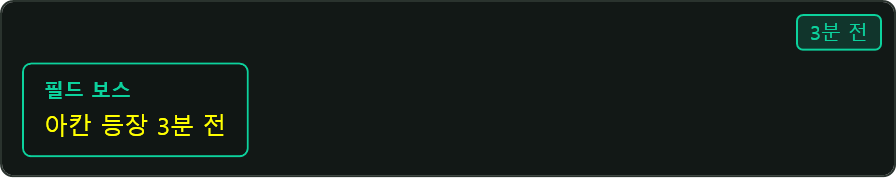
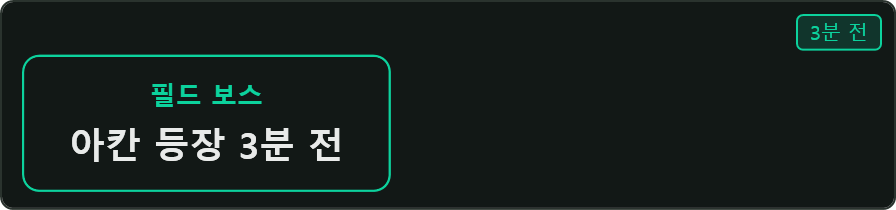
feat: 필드 보스 팝업 알림 — 던전 도우미 알림 창 스타일, 출현 5초 후 자동 닫힘
- BossAlertToastWindow 신설: 가운데 민트 타이틀 '필드 보스' + 굵은 본문,
  3분/1분 전은 기본 색, 5초 전은 '곧 등장!' 붉은 강조
- 소리 알림과 함께 표시, 같은 창을 재사용해 이후 단계 알림 시 문구 갱신
- 닫힘 시각 = 보스 출현 + 5초 (이미 지난 경우 5초 유지), 드래그 이동 가능,
  트레이 최소화 중에는 표시 안 함
- 텍스트 변경: 던전 알림 창 '던전 카운트'→'던전 도우미',
  '어밴던로드 상황판'→'어밴던로드 통계'
- 도움말: 보스 알림 프레임을 실제 팝업 렌더로 교체, 본문에 팝업 동작 추가
- 도움말 이미지 확대 금지(DownOnly) — 에토스 방향 88x128 원본이
  창 폭까지 늘어나 거대하게 보이던 문제 해결

diff --git a/Views/Overlays/AbaddonRoadSummaryWindow.xaml b/Views/Overlays/AbaddonRoadSummaryWindow.xaml
@@ -5,7 +5,7 @@
         xmlns:d="http://schemas.microsoft.com/expression/blend/2008"
         xmlns:mc="http://schemas.openxmlformats.org/markup-compatibility/2006"
         mc:Ignorable="d"
-        Title="어밴던로드 상황판"
+        Title="어밴던로드 통계"
         Width="384"
         Height="320"
         MinWidth="344"
@@ -40,7 +40,7 @@
                     <StackPanel Grid.Column="0"
                                 HorizontalAlignment="Center"
                                 VerticalAlignment="Center">
-                        <TextBlock Text="어밴던로드 상황판"
+                        <TextBlock Text="어밴던로드 통계"
                                    Foreground="{DynamicResource TextBrush}"
                                    FontSize="16"
                                    FontWeight="Bold"

diff --git a/Views/Overlays/DungeonCountDisplayWindow.xaml b/Views/Overlays/DungeonCountDisplayWindow.xaml
@@ -24,7 +24,7 @@
                     <RowDefinition Height="*"/>
                 </Grid.RowDefinitions>
 
-                <TextBlock Text="던전 카운트"
+                <TextBlock Text="던전 도우미"
                            Foreground="{DynamicResource OverlayTitleAccentTextBrush}"
                            FontSize="13"
                            FontWeight="SemiBold"
@@ -43,7 +43,7 @@
 
             <!-- 잠금 해제(위치 미리보기) 공통 라벨 -->
             <TextBlock x:Name="PreviewLabel"
-                       Text="던전 카운트 알림창"
+                       Text="던전 도우미 알림창"
                        Foreground="{DynamicResource TextBrush}"
                        FontSize="15"
                        FontWeight="SemiBold"

diff --git a/Views/Overlays/BossAlertToastWindow.cs b/Views/Overlays/BossAlertToastWindow.cs
@@ -1,0 +1,162 @@
+using System;
+using System.Windows;
+using System.Windows.Controls;
+using System.Windows.Input;
+using System.Windows.Interop;
+using System.Windows.Media;
+using System.Windows.Threading;
+using TWChatOverlay.Services;
+
+namespace TWChatOverlay.Views
+{
+    /// <summary>
+    /// 필드 보스 알림 팝업. 도움말 예시와 같은 다크·민트 토스트 스타일로
+    /// "필드 보스 / 아칸 등장 3분 전"을 표시하고, 보스 출현 5초 후 자동으로 닫힌다.
+    /// 같은 창을 재사용해 이후 알림(1분 전/5초 전)이 오면 문구만 갱신한다.
+    /// </summary>
+    public sealed class BossAlertToastWindow : Window
+    {
+        private static BossAlertToastWindow? _instance;
+
+        private static readonly Color DangerCol = Color.FromRgb(0xFF, 0x5A, 0x5A);
+
+        private readonly TextBlock _bodyText;
+        private readonly DispatcherTimer _closeTimer;
+
+        public BossAlertToastWindow()
+        {
+            WindowStyle = WindowStyle.None;
+            AllowsTransparency = true;
+            Background = Brushes.Transparent;
+            ShowInTaskbar = false;
+            ShowActivated = false;
+            Topmost = true;
+            ResizeMode = ResizeMode.NoResize;
+            SizeToContent = SizeToContent.WidthAndHeight;
+            WindowFontService.Apply(this);
+
+            // 던전 도우미(던전 카운트) 알림 창과 같은 시각 언어:
+            // 가운데 정렬 민트 타이틀 + 크고 굵은 본문, 둥근 어두운 판
+            var title = new TextBlock
+            {
+                Text = "필드 보스",
+                FontSize = 13,
+                FontWeight = FontWeights.SemiBold,
+                TextAlignment = TextAlignment.Center,
+            };
+            title.SetResourceReference(TextBlock.ForegroundProperty, "OverlayTitleAccentTextBrush");
+
+            _bodyText = new TextBlock
+            {
+                FontSize = 18,
+                FontWeight = FontWeights.Bold,
+                TextAlignment = TextAlignment.Center,
+                Margin = new Thickness(0, 4, 0, 0),
+            };
+            _bodyText.SetResourceReference(TextBlock.ForegroundProperty, "TextBrush");
+
+            var stack = new StackPanel { MinWidth = 150 };
+            stack.Children.Add(title);
+            stack.Children.Add(_bodyText);
+
+            var root = new Border
+            {
+                BorderThickness = new Thickness(1.2),
+                CornerRadius = new CornerRadius(8),
+                Padding = new Thickness(16, 10, 16, 11),
+                Child = stack,
+            };
+            root.SetResourceReference(Border.BackgroundProperty, "OverlayWindowBackgroundBrush");
+            root.SetResourceReference(Border.BorderBrushProperty, "OverlayAccentBorderBrush");
+            Content = root;
+
+            // 잡고 끌어서 옮길 수 있게 (위치는 세션 내에서만 유지)
+            root.MouseLeftButtonDown += (_, e) =>
+            {
+                if (e.ButtonState == MouseButtonState.Pressed)
+                {
+                    try { DragMove(); } catch { }
+                }
+            };
+
+            _closeTimer = new DispatcherTimer();
+            _closeTimer.Tick += (_, _) =>
+            {
+                _closeTimer.Stop();
+                try { Close(); } catch { }
+            };
+        }
+
+        protected override void OnSourceInitialized(EventArgs e)
+        {
+            base.OnSourceInitialized(e);
+            try
+            {
+                IntPtr hwnd = new WindowInteropHelper(this).EnsureHandle();
+                int exStyle = NativeMethods.GetWindowLong(hwnd, NativeMethods.GWL_EXSTYLE);
+                NativeMethods.SetWindowLong(hwnd, NativeMethods.GWL_EXSTYLE, exStyle | NativeMethods.WS_EX_TOOLWINDOW);
+            }
+            catch { }
+        }
+
+        /// <summary>알림 문구 설정. 5초 전(등장 임박)은 붉은색으로 강조한다.</summary>
+        public void SetAlert(string bossName, string label)
+        {
+            bool imminent = string.Equals(label, "5초 전", StringComparison.Ordinal);
+            _bodyText.Text = imminent ? $"{bossName} 곧 등장!" : $"{bossName} 등장 {label}";
+            if (imminent)
+                _bodyText.Foreground = new SolidColorBrush(DangerCol);
+            else
+                _bodyText.SetResourceReference(TextBlock.ForegroundProperty, "TextBrush");
+        }
+
+        /// <summary>
+        /// 알림 팝업 표시(싱글턴 재사용). 보스 출현 시각 + 5초에 자동으로 닫는다.
+        /// 이후 단계 알림이 오면 문구를 갱신하고 닫힘 시각을 다시 계산한다.
+        /// </summary>
+        public static void ShowAlert(string bossName, string label, DateTime occurrence)
+        {
+            if (TrayAllWindowsService.IsTrayed)
+                return; // 트레이 최소화 중에는 알림 창을 띄우지 않는다
+
+            try
+            {
+                bool isNew = _instance == null || !_instance.IsLoaded;
+                if (isNew)
+                {
+                    _instance = new BossAlertToastWindow();
+                    _instance.Closed += (_, _) => _instance = null;
+                }
+
+                var window = _instance!;
+                window.SetAlert(bossName, label);
+
+                // 보스 출현 5초 후 삭제 (이미 지났으면 5초만 유지)
+                TimeSpan lifetime = occurrence.AddSeconds(5) - DateTime.Now;
+                if (lifetime < TimeSpan.FromSeconds(5))
+                    lifetime = TimeSpan.FromSeconds(5);
+                window._closeTimer.Stop();
+                window._closeTimer.Interval = lifetime;
+                window._closeTimer.Start();
+
+                if (!window.IsVisible)
+                {
+                    window.Show();
+                    if (isNew)
+                    {
+                        // 처음 뜰 때만 기본 위치(작업 영역 상단 중앙) — 이후엔 사용자가 끈 위치 유지
+                        Rect workArea = SystemParameters.WorkArea;
+                        window.Left = workArea.Left + ((workArea.Width - window.ActualWidth) / 2.0);
+                        window.Top = workArea.Top + 120;
+                    }
+                }
+
+                TopmostWindowHelper.BringToTopmost(window);
+            }
+            catch (Exception ex)
+            {
+                AppLogger.Warn("Failed to show boss alert toast.", ex);
+            }
+        }
+    }
+}

diff --git a/Services/Diagnostics/HelpShotRenderer.cs b/Services/Diagnostics/HelpShotRenderer.cs
@@ -200,11 +200,9 @@ namespace TWChatOverlay.Services
                 DimLine("(버프 추적 창 표시 안 함)")));
             Save(outDir, "buff_tracker_on.png", PanelToggle(true, RealBuffTracker()));
 
-            // ── 필드 보스 알림 ──
-            Save(outDir, "boss_alert_3min.png", Panel("3분 전",
-                ToastMock("필드 보스", "아칸 등장 3분 전", SystemCol)));
-            Save(outDir, "boss_alert_spawn.png", Panel("5초 전",
-                ToastMock("필드 보스", "아칸이 곧 등장합니다!", Color.FromRgb(0xFF, 0x5A, 0x5A))));
+            // ── 필드 보스 알림 (실제 팝업 창) ──
+            Save(outDir, "boss_alert_3min.png", Panel("3분 전", RealBossToast("아칸", "3분 전")));
+            Save(outDir, "boss_alert_spawn.png", Panel("5초 전", RealBossToast("아칸", "5초 전")));
 
             // ── 던전 도우미 알림들 (실제 창) ──
             Save(outDir, "dungeon_wave_off.png", PanelToggle(false, DimLine("(웨이브가 끝나도 알림 없음)")));
@@ -383,6 +381,16 @@ namespace TWChatOverlay.Services
         private static FrameworkElement RealDungeonAlert(string message)
         {
             var root = WindowRoot(new Views.DungeonCountDisplayWindow(message, RealFont, durationSeconds: 0, new ChatSettings()));
+            root.MaxWidth = 426;
+            return root;
+        }
+
+        /// <summary>실제 필드 보스 알림 팝업 창.</summary>
+        private static FrameworkElement RealBossToast(string bossName, string label)
+        {
+            var w = new Views.BossAlertToastWindow();
+            w.SetAlert(bossName, label);
+            var root = WindowRoot(w);
             root.MaxWidth = 426;
             return root;
         }

diff --git a/Services/Data/HelpTopics.cs b/Services/Data/HelpTopics.cs
@@ -244,7 +244,7 @@ namespace TWChatOverlay.Services
 
             ["dungeon.abandon_gold"] = (
                 "어밴던로드 통계",
-                "어밴던로드 상황판 창을 보여줍니다.\n" +
+                "어밴던로드 통계 창을 보여줍니다.\n" +
                 "주간 합계 금액과 마정석(하급~최상급) 획득 내역을 한눈에 볼 수 있습니다.",
                 new[] { "dungeon_abandon_gold_off.png", "dungeon_abandon_gold_on.png" }),
 
@@ -281,7 +281,8 @@ namespace TWChatOverlay.Services
 
             ["boss.alert"] = (
                 "필드 보스 알림",
-                "필드 보스 등장 시간표에 맞춰 3분 전 / 1분 전 / 5초 전에 알림을 띄웁니다.\n" +
+                "필드 보스 등장 시간표에 맞춰 3분 전 / 1분 전 / 5초 전에\n" +
+                "소리와 함께 팝업 알림을 띄웁니다. 팝업은 보스 출현 5초 후 자동으로 닫힙니다.\n" +
                 "보스별로 받을 알림을 따로 켜고 끌 수 있고, 알림 볼륨도 조절할 수 있습니다.",
                 new[] { "boss_alert_3min.png", "boss_alert_spawn.png" }),
 

diff --git a/Services/Data/Boss/BossAlarmSchedulerService.cs b/Services/Data/Boss/BossAlarmSchedulerService.cs
@@ -93,6 +93,8 @@ namespace TWChatOverlay.Services
 
                 AppLogger.Info($"Boss alarm triggered. Boss='{boss.Name}', Trigger='{label}', Occurrence='{occurrence:yyyy-MM-dd HH:mm:ss}'");
                 NotificationService.PlayAlert(ResolveSoundFile(boss.Id, offsetBefore));
+                // 팝업 알림: 보스 출현 5초 후 자동으로 닫힌다
+                Views.BossAlertToastWindow.ShowAlert(boss.Name, label, occurrence);
                 return true;
             }
 

diff --git a/Views/Controls/HelpWindow.cs b/Views/Controls/HelpWindow.cs
@@ -66,6 +66,8 @@ namespace TWChatOverlay.Views
             _frameImage = new Image
             {
                 Stretch = Stretch.Uniform,
+                // 작은 원본(에토스 방향 등)이 창 폭까지 확대되어 흐릿해지지 않게 축소만 허용
+                StretchDirection = StretchDirection.DownOnly,
                 MaxWidth = 448,
                 HorizontalAlignment = HorizontalAlignment.Left,
                 Margin = new Thickness(0, 0, 0, 10),
